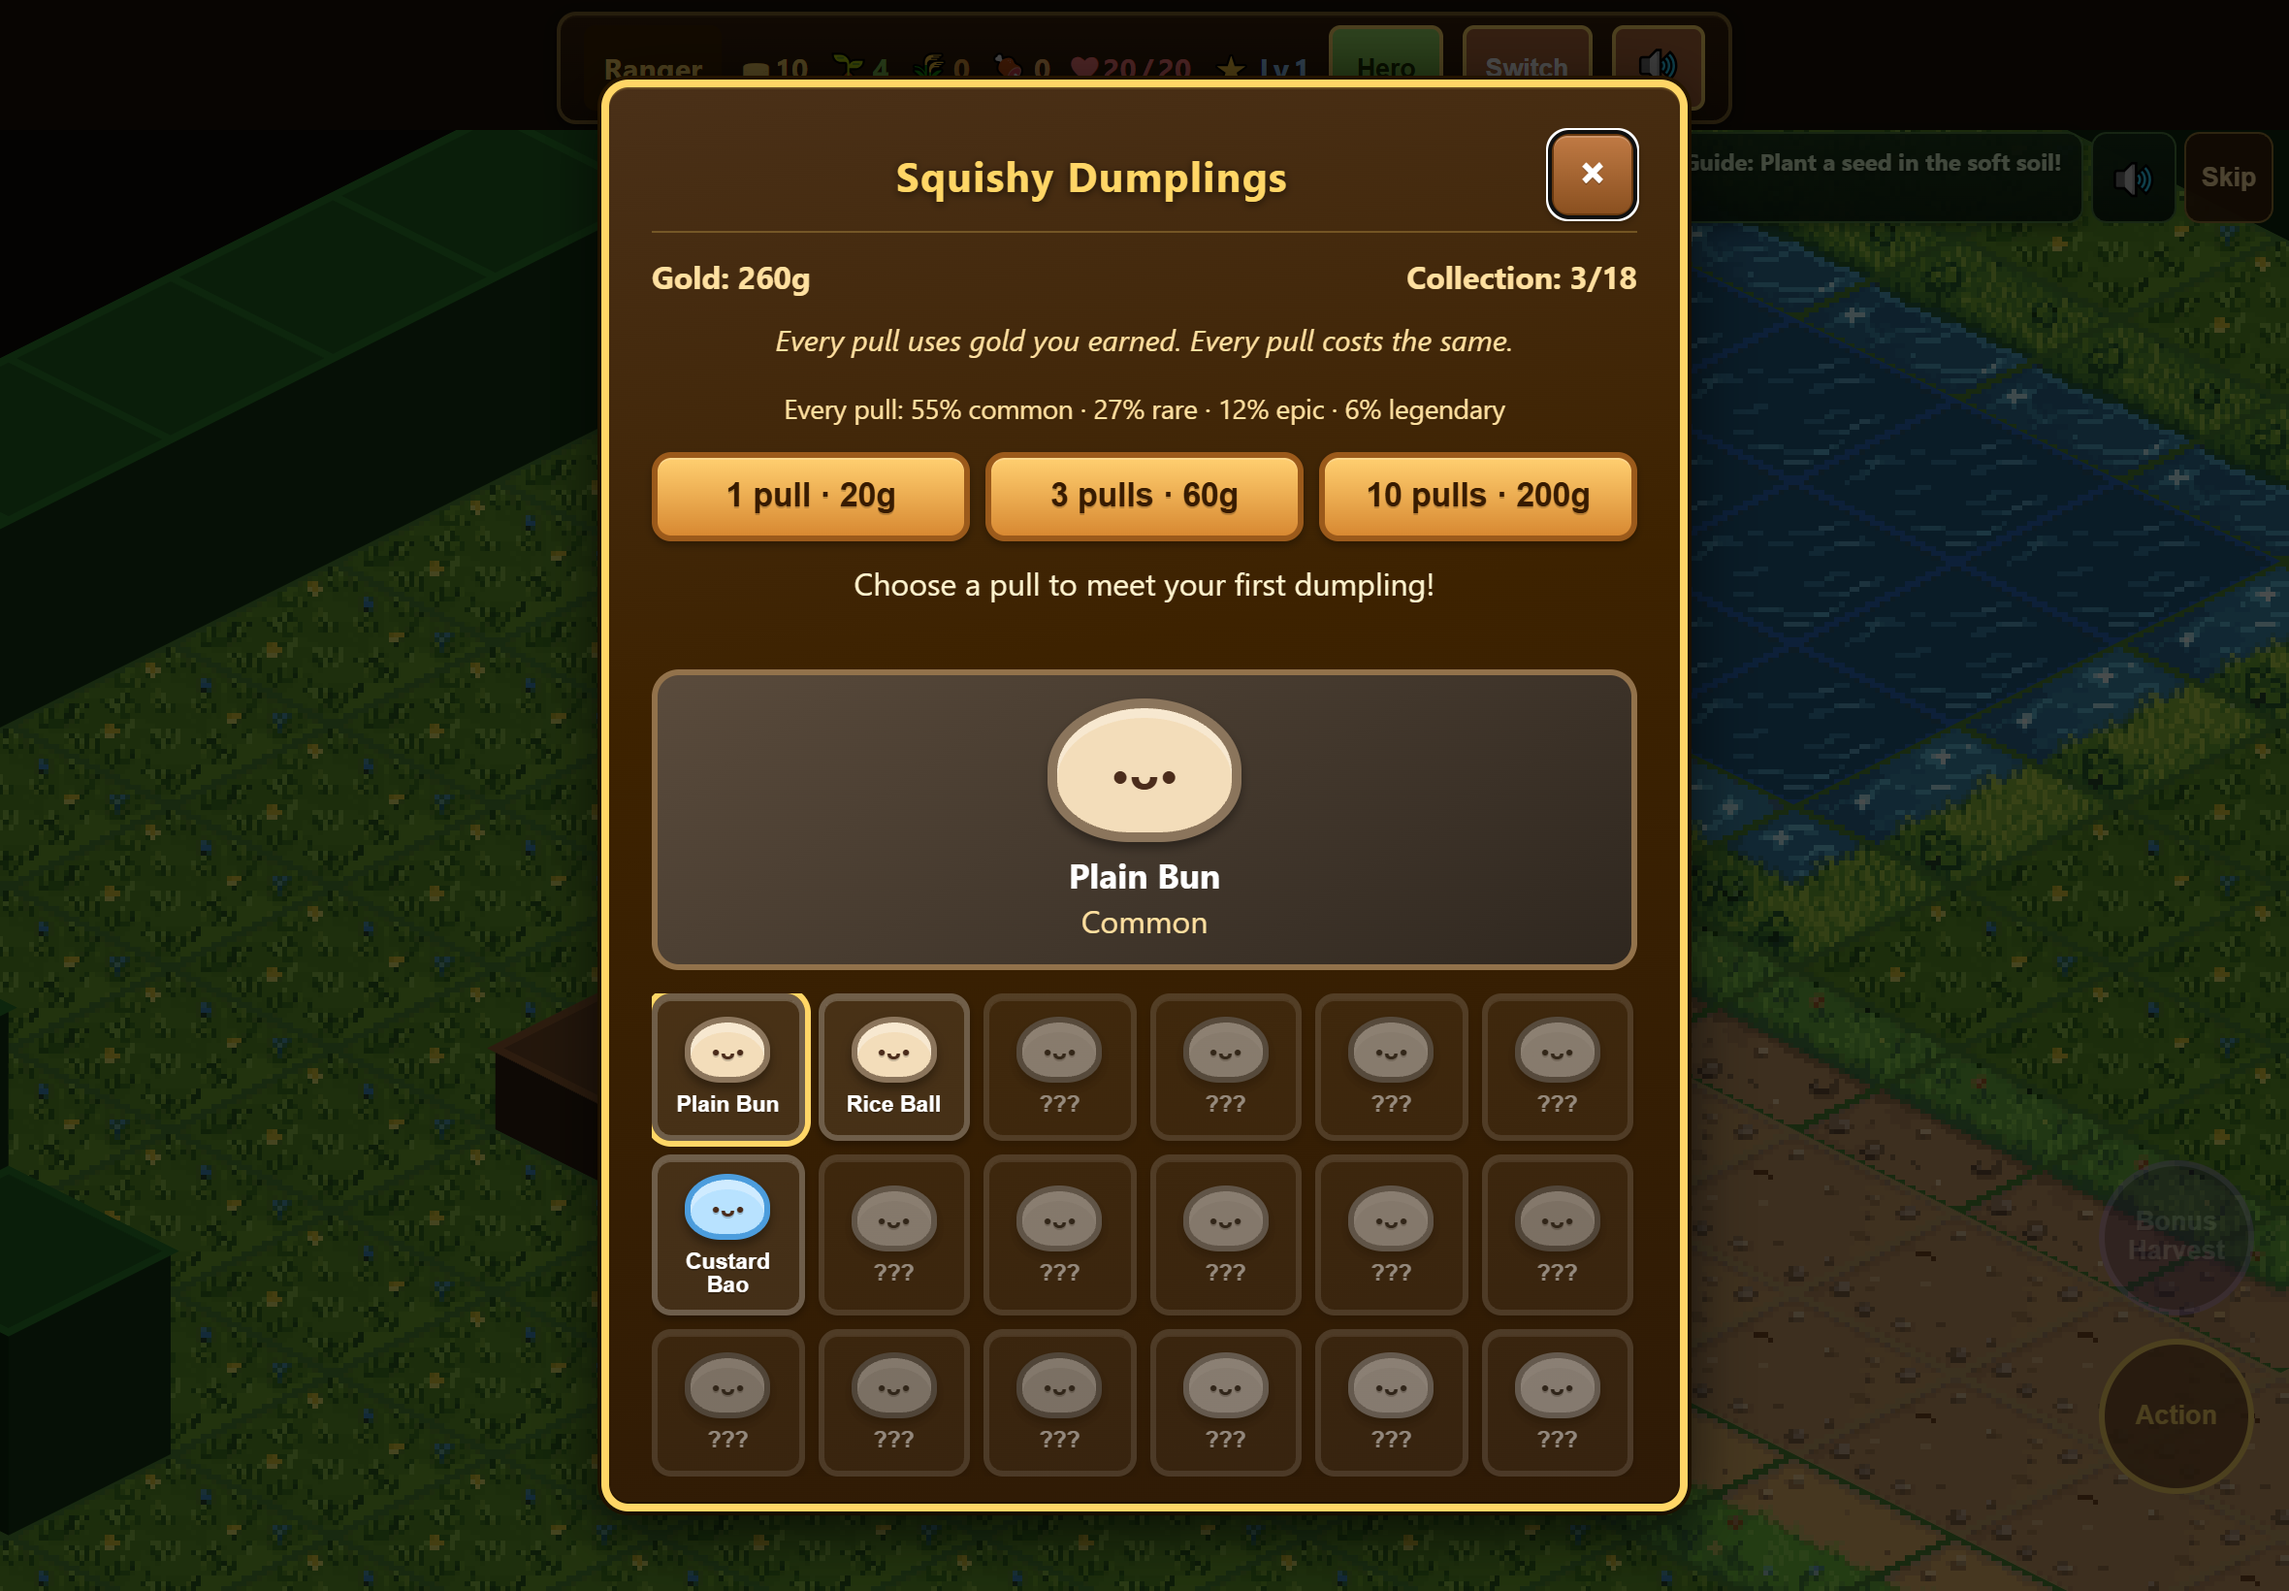
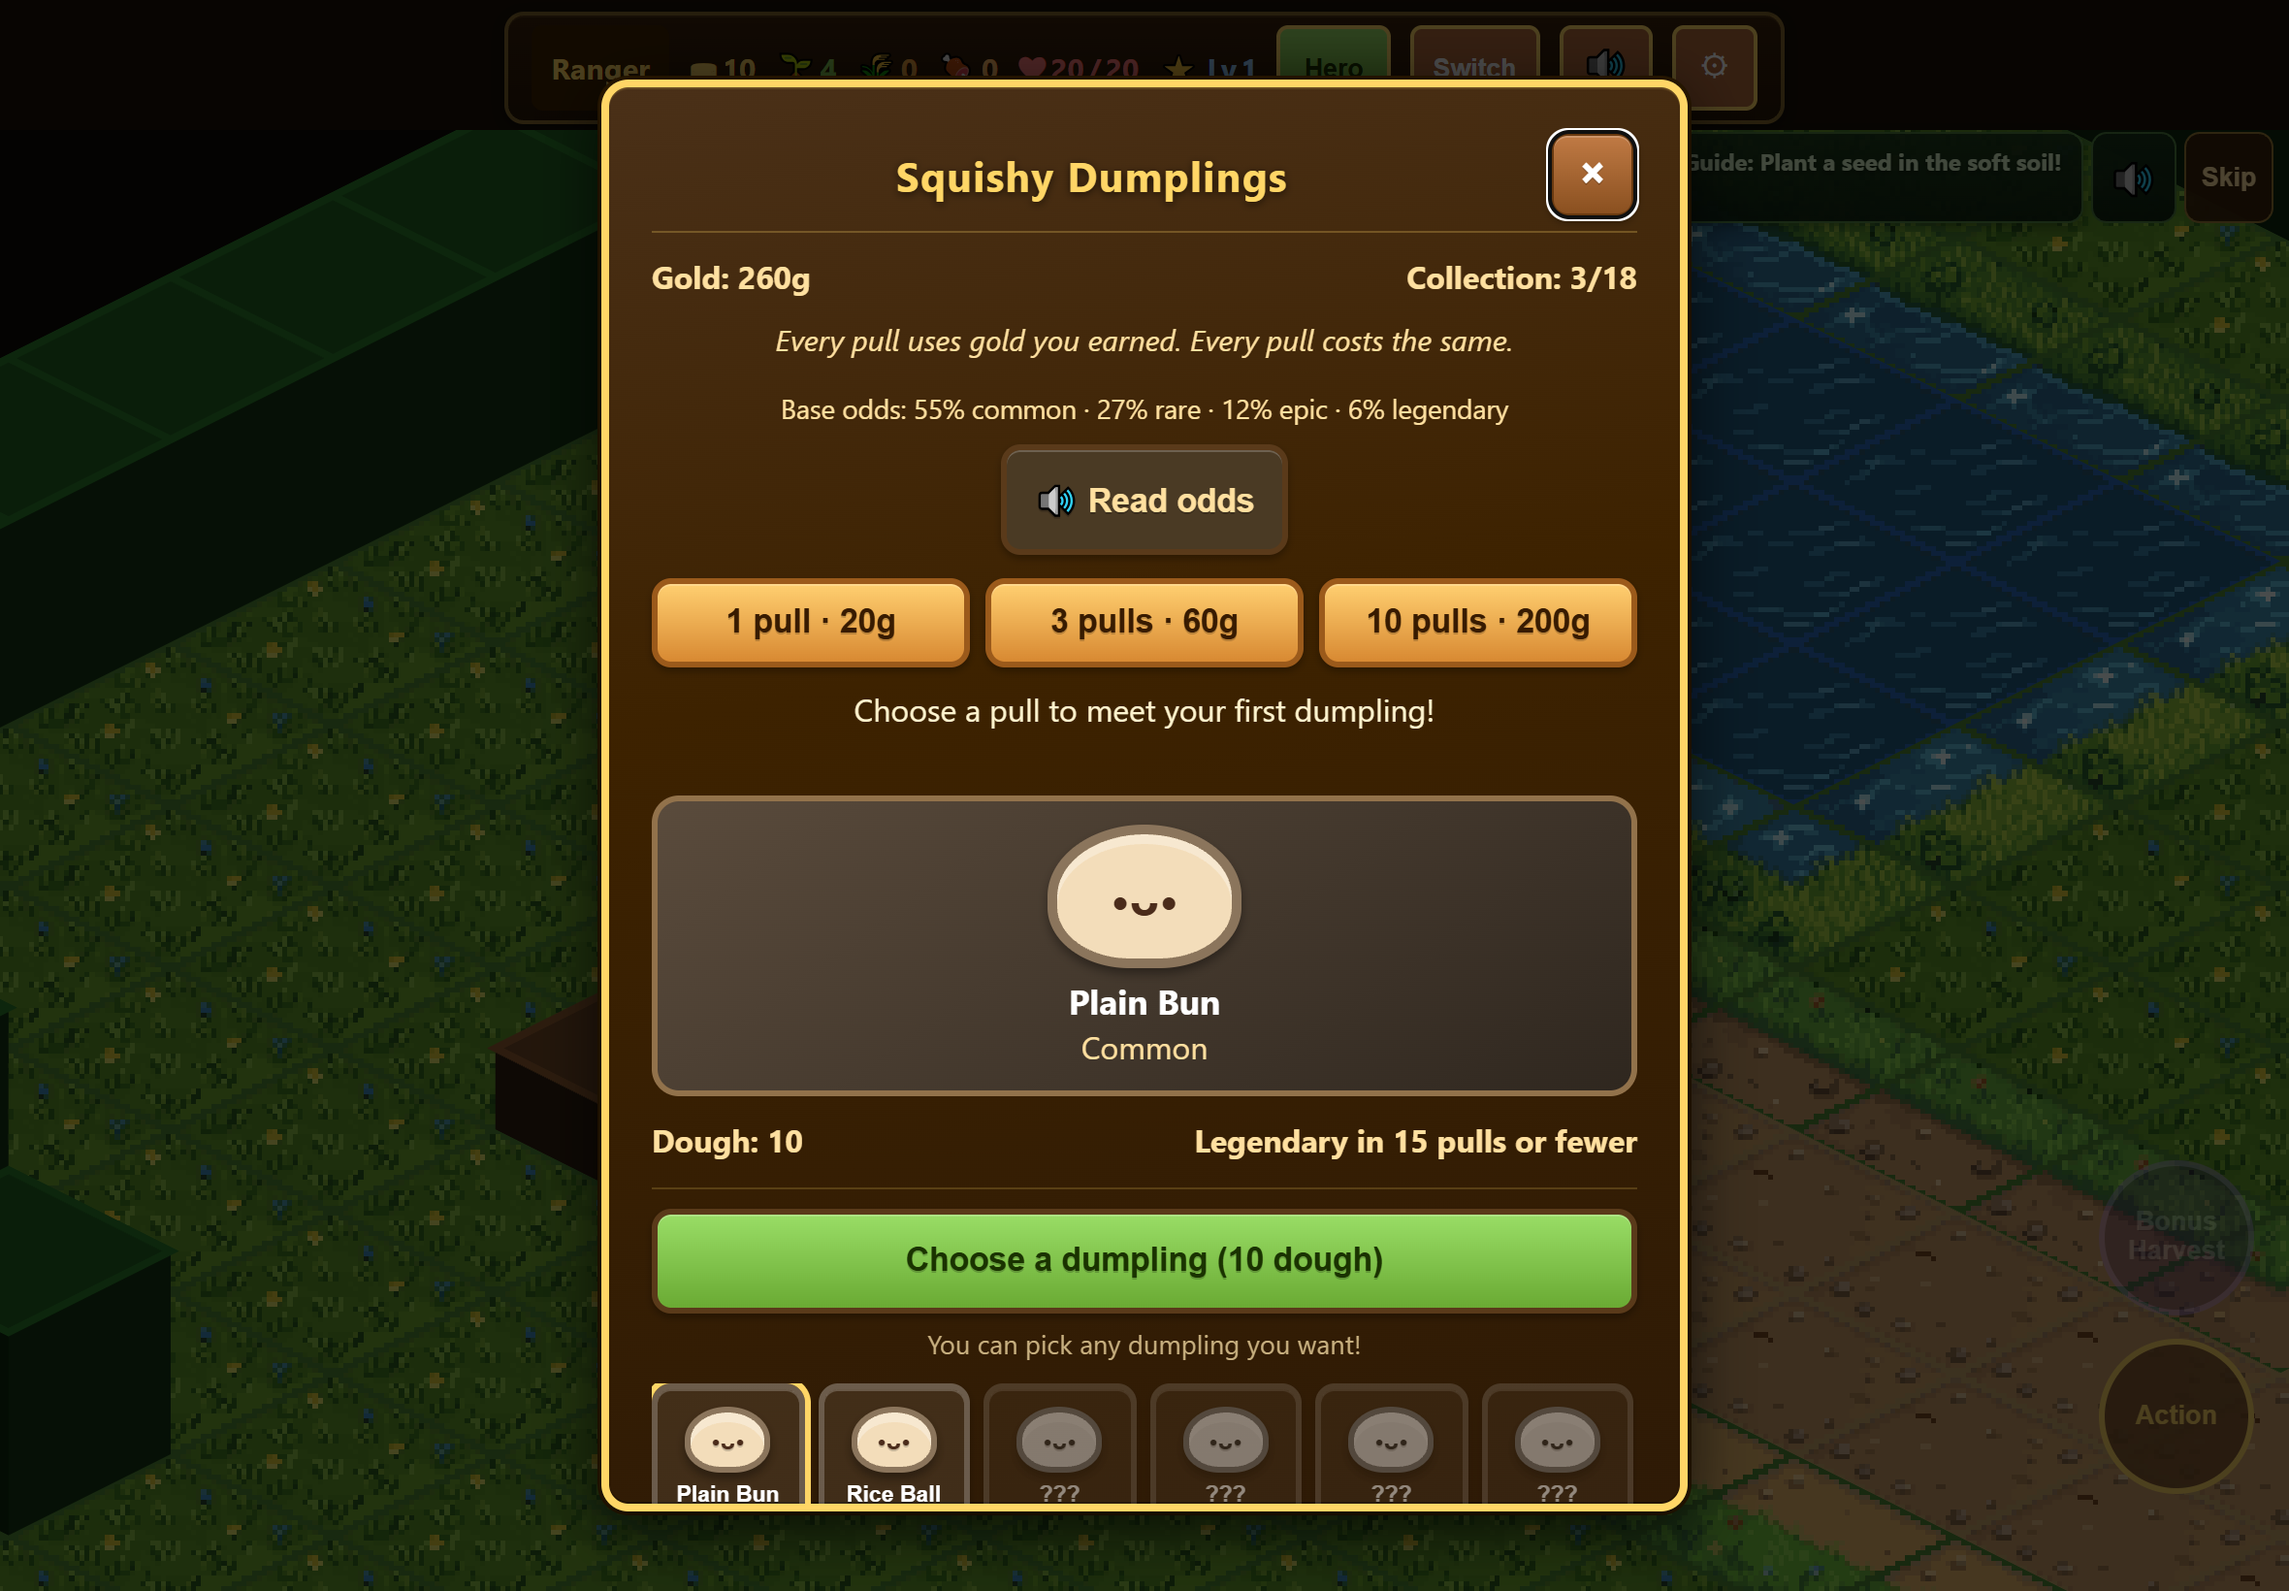
Dumpling correction 7: keep the picking exit on screen without burying cards
Entering selection mode used to scroll the shelf and push the dough panel -
which carries the only exit, "Cancel choosing" - off the bottom of both the
iPad and the phone, stranding a child in picking mode with no visible way out.

Fix by DOM order: the dough balance and dough panel now sit ABOVE the shelf,
so the exit is always co-visible with the cards and the shelf is the sole
scrolling region - nothing ever scrolls over a dumpling. openDoughPicker
scrolls the panel (not the grid) into view so the way out and the shelf show
together; setDumplingPickMode owns only the flag now.

Phone geometry assertions cover the new invariant: exit reachable on entry,
panel entirely above the shelf (no overlap at any scroll), last card scrolls
fully into view. Full npm test green. Captures refreshed and inspected;
manifest rewritten for the new PNG hashes.

Changed region(s): [[0.2784, 0.2488, 0.7424, 0.964], [0.2165, 0.0, 0.7733, 0.0933]]

diff --git a/js/04-interaction.js b/js/04-interaction.js
@@ -489,20 +489,30 @@ function rollDumpling() {
 
 var dumplingPickMode = false;   // true while the child is choosing a dumpling with dough
 
+// Four call sites clear this mode, so they all go through one setter rather than
+// each remembering the flag. The dough panel (the only exit from selection mode)
+// now sits above the shelf in the DOM, so nothing scrolls over it and no sticky
+// pinning class is needed to keep the exit reachable.
+function setDumplingPickMode(on) {
+  dumplingPickMode = on;
+}
+
 function openDoughPicker() {
   if (!canPickWithDough()) return;
-  dumplingPickMode = true;
+  setDumplingPickMode(true);
   document.getElementById('dumplingStatus').textContent =
     'Tap the dumpling you want! It costs ' + DUMPLING_DOUGH_PER_PICK + ' dough.';
   renderDumplingModal();
-  // Bring the shelf into view. Telling a child to tap a card that is scrolled off
-  // the bottom of the panel is the same as not offering the choice at all.
-  var grid = document.getElementById('dumplingGrid');
-  if (grid && grid.scrollIntoView) grid.scrollIntoView({ block: 'nearest' });
+  // Bring the exit ("Cancel choosing") and the shelf below it into view together.
+  // The panel sits directly above the shelf, so showing it shows the child both the
+  // way out and the cards to tap. Telling a child to tap a card that is scrolled off
+  // screen is the same as not offering the choice at all.
+  var panel = document.querySelector('#dumplingModal .dumpling-dough-panel');
+  if (panel && panel.scrollIntoView) panel.scrollIntoView({ block: 'start' });
 }
 
 function cancelDoughPicker() {
-  dumplingPickMode = false;
+  setDumplingPickMode(false);
   renderDumplingModal();
 }
 
@@ -691,7 +701,7 @@ function renderDumplingModal() {
     card.appendChild(label);
     if (pickable) {
       card.addEventListener('click', function() {
-        dumplingPickMode = false;
+        setDumplingPickMode(false);
         pickDumplingWithDough(this.dataset.id);
       });
     } else if (owned) {
@@ -707,7 +717,7 @@ function openDumplingVendor() {
   dumplingOpen = true;
   // Dough-pick mode is a per-visit interaction, not a saved preference: a stall that
   // reopens already in "choose a dumpling" mode gives a child no visible cause for it.
-  dumplingPickMode = false;
+  setDumplingPickMode(false);
   if (dumplingCollectionCount() === 0) {
     document.getElementById('dumplingStatus').textContent =
       'Choose a pull to meet your first dumpling!';
@@ -724,7 +734,7 @@ function closeDumplingVendor() {
   dumplingOpen = false;
   // Clear selection mode on the way out too, so Escape and the close button leave
   // the stall in the same neutral state the next visit expects.
-  dumplingPickMode = false;
+  setDumplingPickMode(false);
   modalShellClose('dumplingModal');
 }
 registerModal('dumplingModal', closeDumplingVendor);   // Escape = leave the stall

diff --git a/index.html b/index.html
@@ -168,17 +168,19 @@
       <div class="dumpling-selected-name" id="dumplingSelectedName">No dumpling selected</div>
       <div class="dumpling-selected-rarity" id="dumplingSelectedRarity">Pull one to begin</div>
     </div>
-    <div class="dumpling-grid" id="dumplingGrid" aria-label="Dumpling collection"></div>
     <div class="dumpling-balance">
       <span id="dumplingDough">Dough: 0</span>
       <span id="dumplingPity">Legendary in 15 pulls or fewer</span>
     </div>
     <!-- Dough is the deterministic path: duplicates always move you toward finishing
-         the shelf, so completion never depends on luck (owner-approved). -->
+         the shelf, so completion never depends on luck (owner-approved). The dough
+         panel carries the only exit from selection mode, so it sits ABOVE the shelf:
+         the shelf is the sole scrolling region and nothing ever scrolls over the exit. -->
     <div class="dumpling-dough-panel">
       <button class="btn-buy" id="dumplingDoughAction" type="button" disabled>Choose a dumpling (10 dough)</button>
       <p class="dumpling-dough-hint" id="dumplingDoughHint">Duplicates make dough. 10 more dough and you can pick any dumpling you want.</p>
     </div>
+    <div class="dumpling-grid" id="dumplingGrid" aria-label="Dumpling collection"></div>
     <p class="shop-hint">Duplicate: +4g refund and +1 dough. Buddy powers are coming next.</p>
     <button class="btn-close" onclick="closeDumplingVendor()" aria-label="Leave the dumpling stall">Leave</button>
   </div>
